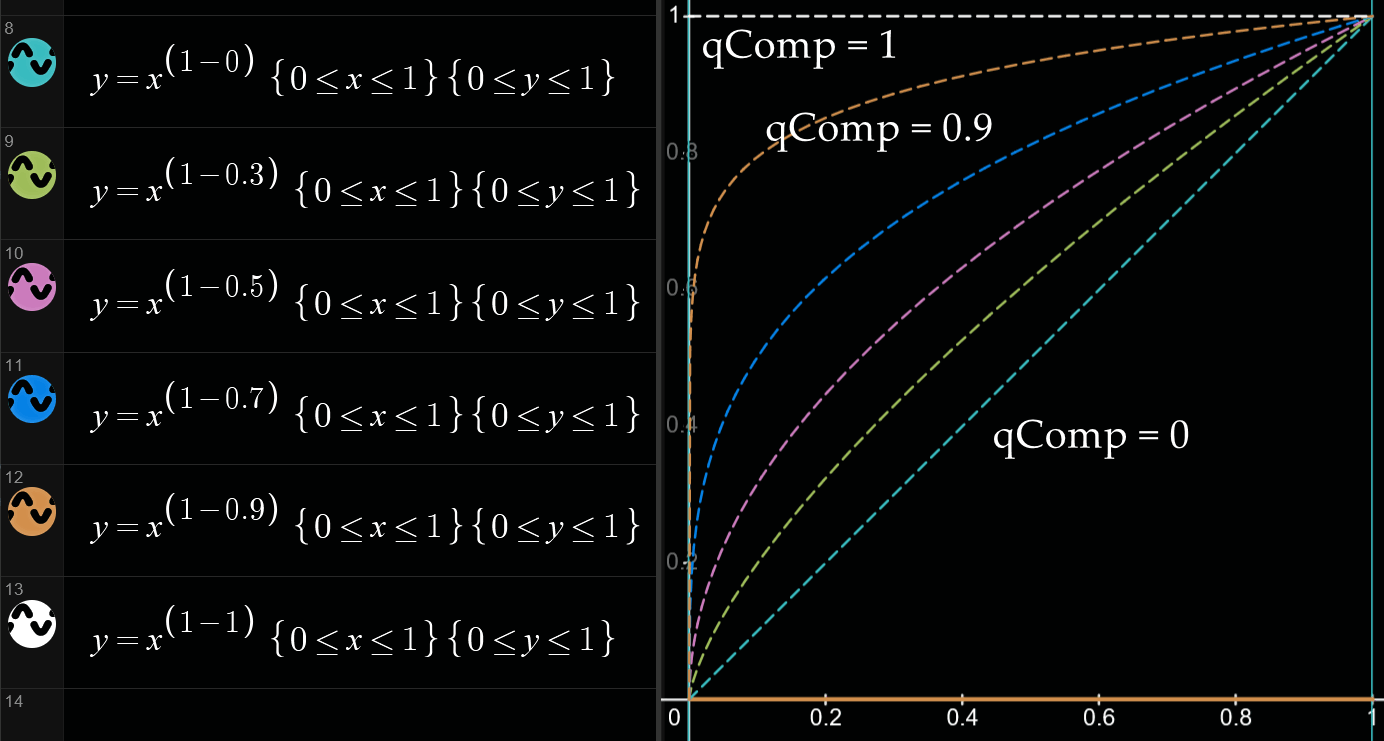
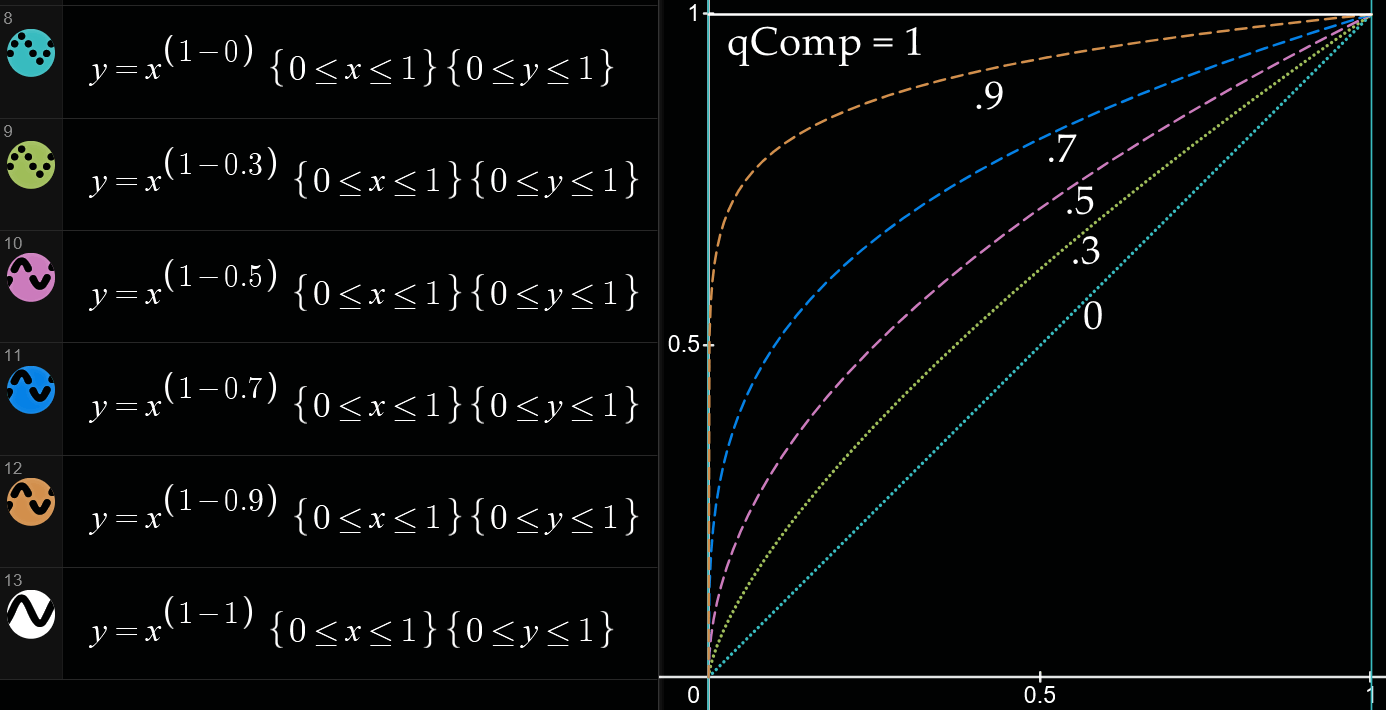
Replaced qComp image to reveal 0.5 better

diff --git a/HTML/index.html b/HTML/index.html
@@ -1408,7 +1408,7 @@ x265.exe --abr-ladder 1440p8000_2160p11000_2160p16000.txt --fps 59.94 --input-de
             <code class="code-bold">--cplxblur</code>
             <p class="font-monospace pl-5 m-0 overflow-auto">&lt;浮点 0~100，默认 20&gt;由于第 -1 帧不存在，编码器无法算出第 0 帧的 cplxBlur，所以有保留默认值或手动指定的选择（但影响太小），如果从第一帧开始就是复杂的动态画面（如花屏转场）则可以提高，但因为时间很短所以效果可能很不明显</p>
             <code class="code-bold">--qcomp</code>
-            <p class="font-monospace pl-5 m-0 overflow-auto">&lt;浮点范围 0.5~1，推荐默认 0.6 并使用自适应量化功能做质量相关调整&gt;量化强度范围曲线的抑制参数，模糊复杂度 cplxBlur 以及 mbtree/cutree 迭代每帧。<span class="text-blue-math">\[\text{CRF_rate_factor} = \frac{\text{cplxBase}^{1-\text{qcomp}}}{qScale \times (\text{crf} + \text{cutree} + \text{bframe_offset})}\]</span></p>
+            <p class="font-monospace pl-5 m-0 overflow-auto">&lt;浮点范围 0.5~1，推荐默认 0.6 并使用自适应量化功能做上位替代&gt;量化强度范围曲线的抑制参数<span class="text-blue-math">\[\text{CRF_rate_factor} = \frac{\text{cplxBase}^{1-\text{qcomp}}}{qScale \times (\text{crf} + \text{cutree} + \text{bframe_offset})}\]</span></p>
             <ul class="font-monospace pl-5 list-dotless text-smaller">
                 <li><span class="text-blue-emph">0</span>：<span class="text-blue-math">\(\text{cplxBase}^1 = \text{cplxBase}\)</span>，（前瞻进程获取的）帧复杂度（残差计量）完全参与率控制计算
                     <ul>